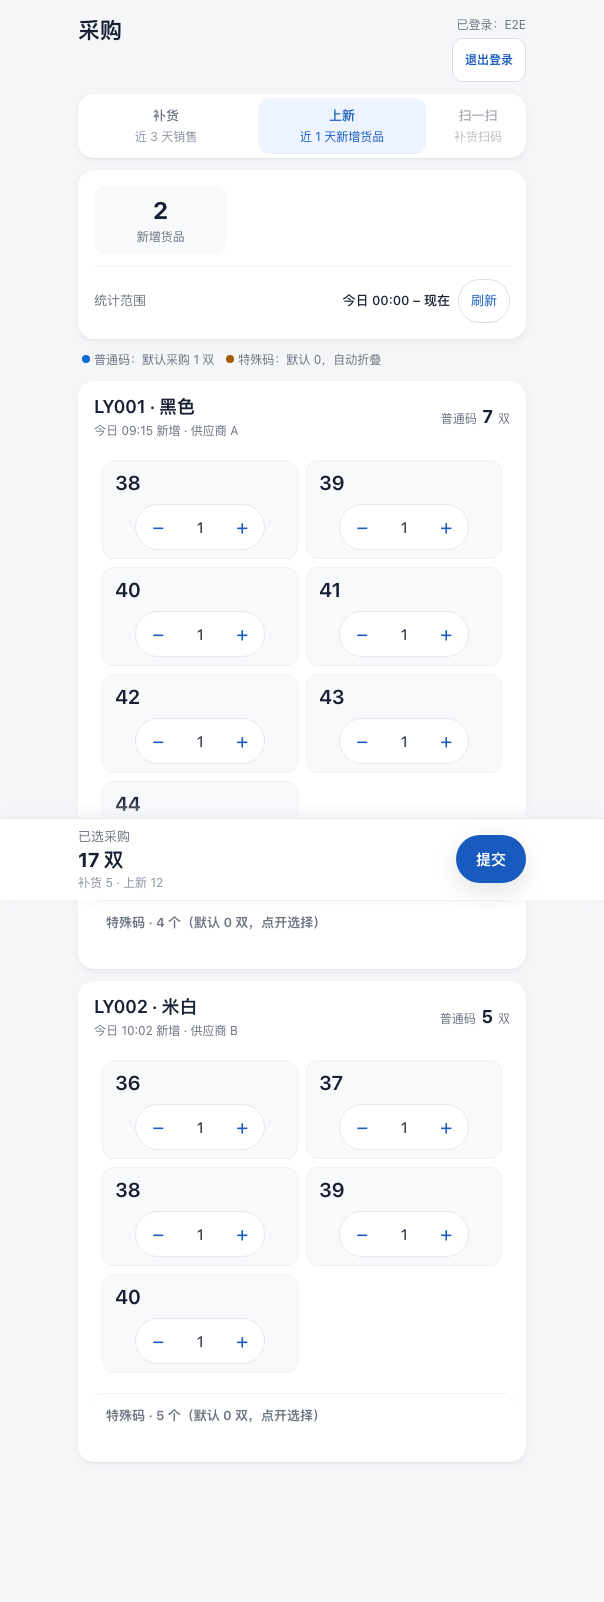
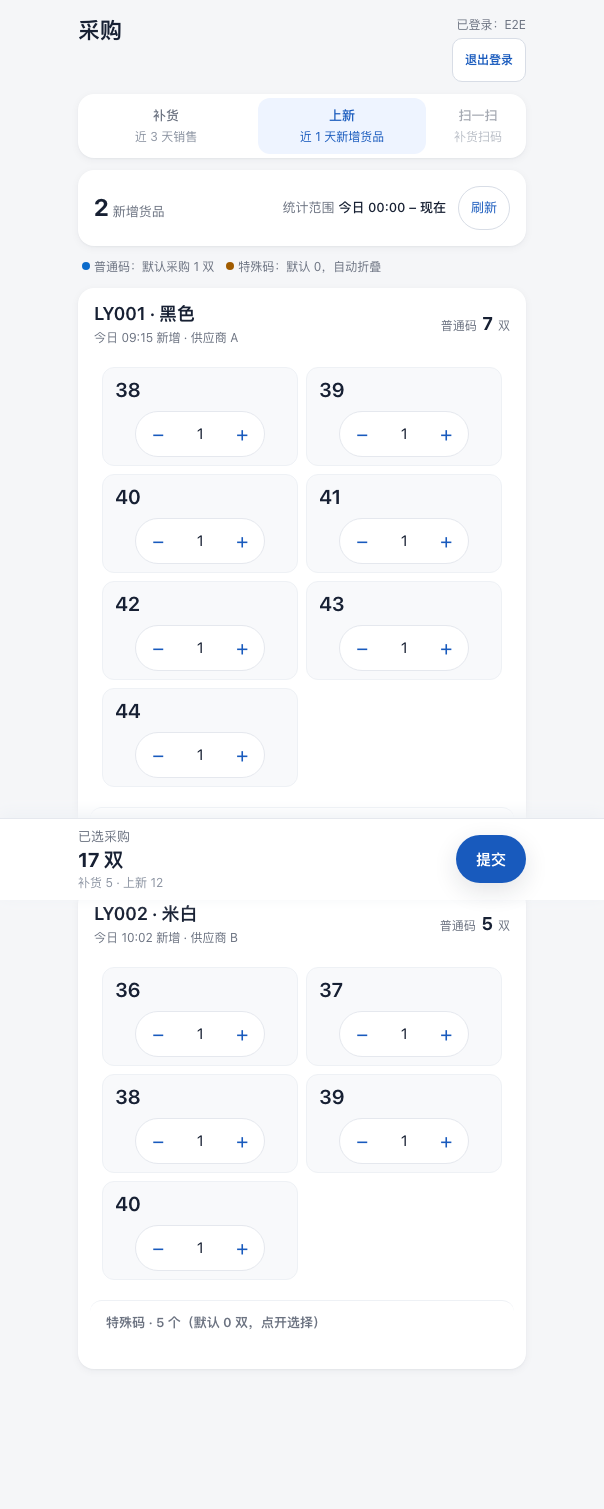
feat(procurement): 上新统计条排成一行（业务负责人 2026-10-29 批注）
- 上新只有 1 个统计项 ⇒ 统计（新增货品 N）+ 统计范围（今日 00:00 – 现在）+ 刷新按钮 同一行；
- 补货 3 项统计保持原网格 + 范围行；config.summary.singleStatInline 开关控制（配置先行）；
- e2e 增加 .pr-summary-inline 断言；frontend 7 条绿；e2e 14 passed；size:check 绿。

diff --git a/server/public/workbench/features/procurement/render.js b/server/public/workbench/features/procurement/render.js
@@ -37,11 +37,21 @@ export const titleOf = (product, config) => {
 
 const statsHtml = (tab, body, config) => {
   const defs = tab === 'replenish' ? config.stats.replenish : config.stats.newProducts;
+  const refreshButton = `<button type="button" class="pr-refresh" data-pr-refresh>${escapeHtml(config.texts.refresh)}</button>`;
+  // 业务负责人 2026-10-29 批注：只有 1 个统计项（上新）时 ⇒ 统计 + 范围文案 + 刷新**放在一行**（不再大块留白）
+  if (defs.length === 1 && config.summary.singleStatInline) {
+    const def = defs[0];
+    return `<section class="pr-summary pr-summary-inline" aria-label="${escapeHtml(config.title)}">
+      <div class="pr-stat-inline"><b>${escapeHtml(body?.stats?.[def.key] ?? 0)}</b><span>${escapeHtml(def.label)}</span></div>
+      <div class="pr-range-inline"><span>${escapeHtml(config.texts.rangeLabel)}</span><strong>${escapeHtml(rangeText(tab, body?.range, config))}</strong></div>
+      ${refreshButton}
+    </section>`;
+  }
   const cells = defs.map((def) => `<div class="pr-stat"><b>${escapeHtml(body?.stats?.[def.key] ?? 0)}</b><span>${escapeHtml(def.label)}</span></div>`).join('');
   return `<section class="pr-summary" aria-label="${escapeHtml(config.title)}">
     <div class="pr-summary-grid">${cells}</div>
     <div class="pr-range"><span>${escapeHtml(config.texts.rangeLabel)}</span><strong>${escapeHtml(rangeText(tab, body?.range, config))}</strong>
-      <button type="button" class="pr-refresh" data-pr-refresh>${escapeHtml(config.texts.refresh)}</button></div>
+      ${refreshButton}</div>
   </section>`;
 };
 

diff --git a/server/public/workbench/procurement.css b/server/public/workbench/procurement.css
@@ -29,6 +29,14 @@
 .pr-stat { padding: var(--space-2) 0; text-align: center; border-radius: var(--radius-md); background: var(--surface-soft); }
 .pr-stat b { display: block; font-size: var(--font-size-amount); line-height: var(--line-height-tight); }
 .pr-stat span { display: block; margin-top: 2px; font-size: var(--font-size-xs); color: var(--text-secondary); }
+/* 上新（只有 1 个统计项）⇒ 统计 + 统计范围 + 刷新 排一行（业务负责人 2026-10-29 批注） */
+.pr-summary-inline { display: flex; align-items: center; flex-wrap: wrap; gap: var(--space-2) var(--space-3); }
+.pr-stat-inline { display: flex; align-items: baseline; gap: var(--space-1); }
+.pr-stat-inline b { font-size: var(--font-size-amount); line-height: var(--line-height-tight); }
+.pr-stat-inline span { font-size: var(--font-size-sm); color: var(--text-secondary); }
+.pr-range-inline { display: flex; align-items: center; flex-wrap: wrap; gap: var(--space-1); margin-left: auto; font-size: var(--font-size-sm); color: var(--text-secondary); }
+.pr-range-inline strong { color: var(--text); font-weight: var(--weight-medium); }
+
 .pr-range { display: flex; align-items: center; gap: var(--space-2); margin-top: var(--space-3); padding-top: var(--space-3); border-top: 1px solid var(--border-light); font-size: var(--font-size-sm); color: var(--text-secondary); }
 .pr-range > span { flex: 0 0 auto; }
 .pr-range strong { flex: 1; color: var(--text); font-weight: var(--weight-medium); text-align: right; }

diff --git a/server/public/workbench/config/procurement.js b/server/public/workbench/config/procurement.js
@@ -59,6 +59,9 @@ export const PROCUREMENT_UI = Object.freeze({
       Object.freeze({ key: 'productCount', label: '新增货品', unit: '' }),
     ]),
   }),
+  summary: Object.freeze({
+    singleStatInline: true, // 只有 1 个统计项（上新）⇒ 统计 + 统计范围 + 刷新**排在一行**
+  }),
   range: Object.freeze({
     // 业务负责人 2026-10-29 口径：补货窗口 = 今天 00:00 - 3 天 ~ **现在**（含今天已发生）
     replenish: '{from} 00:00 – 现在',

diff --git a/docs/procurement-page-real-2026-10-28.md b/docs/procurement-page-real-2026-10-28.md
@@ -109,6 +109,8 @@ tab 切换保留当前会话已选数据；点「提交」才统一写入
 - **AC-P17 薄壳 + 模块化**：`procurement.html` 只做壳（引 CSS/模块、挂载根节点，≤200 行）；业务逻辑全在
   `features/procurement/**`；文案/默认值/尺码规则/端点/刷新参数全在 `config/procurement.js`；
   新文件每个 ≤200 行；**不往旧 398 行演示页补逻辑，整体替换**。
+- **AC-P18d 上新统计条一行**（业务负责人 2026-10-29 批注）：上新只有 1 个统计项 ⇒
+  统计（新增货品 N）+ 统计范围（今日 00:00 – 现在）+「刷新」按钮**排在同一行**（不再大块留白）；补货 3 项统计保持原样。
 - **AC-P18c 尺码卡 = 一行两个 + 上下两栏（补货与上新统一）**（业务负责人 2026-10-29 批注）：每个尺码卡 =
   第一行「尺码（补货还带现货/预订数量信息）」、第二行「加减数量圆框」（**圆框在卡片里居中**）；
   尺码卡**一行两个**（390 宽下也不横向滚动）；**上新 tab 的尺码格与补货同一套卡片样式**。
